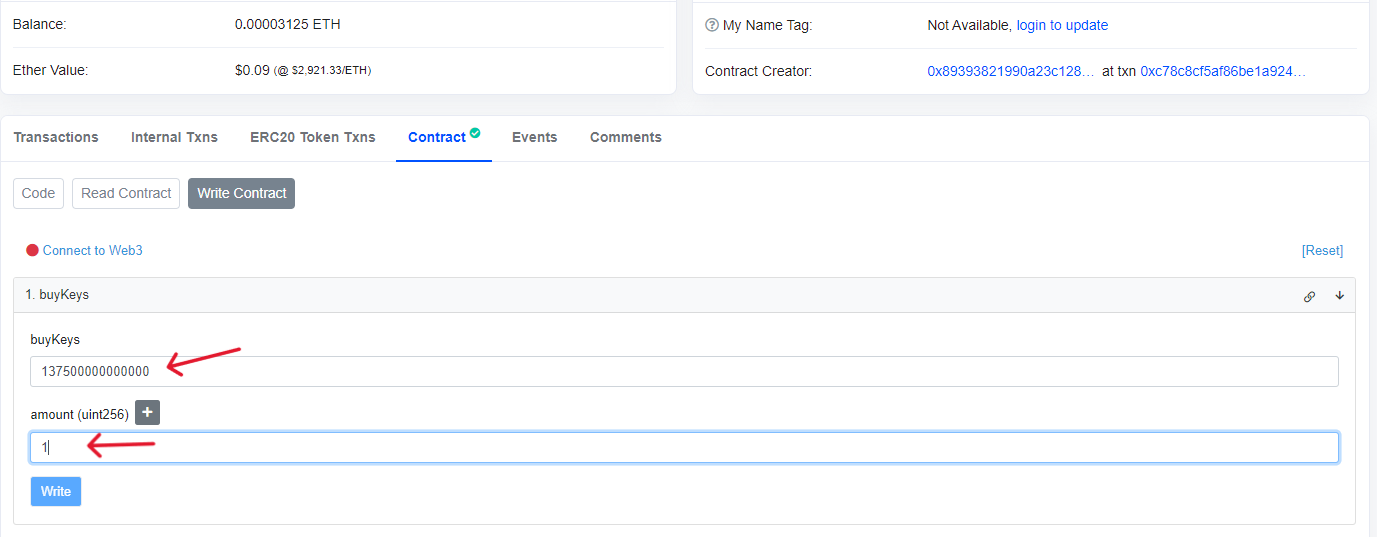
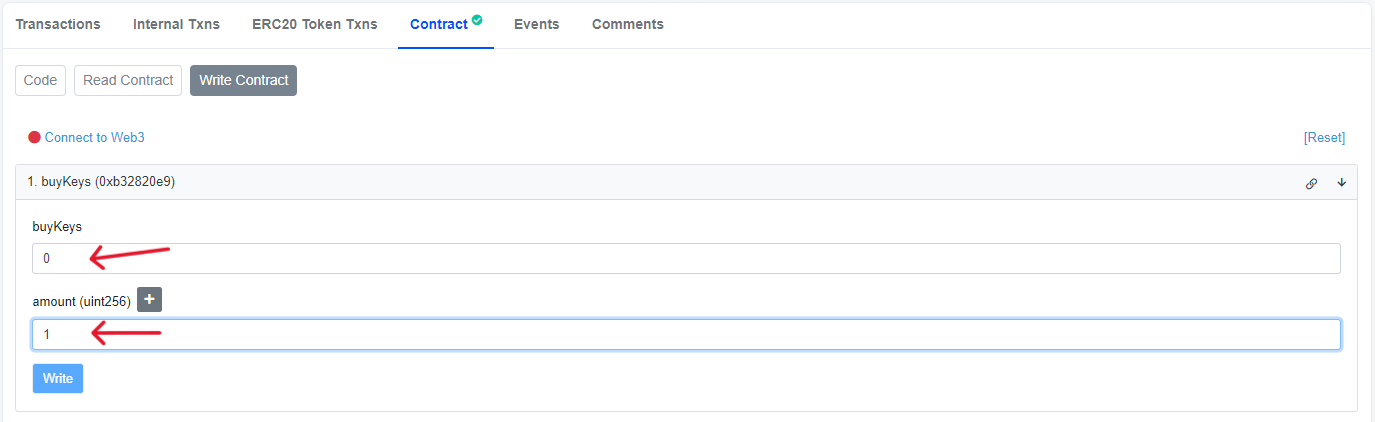
buy sell guide to use ALI

diff --git a/guides/buy-sell-keys-of-dpt/buy-sell-keys-of-dpt.md b/guides/buy-sell-keys-of-dpt/buy-sell-keys-of-dpt.md
@@ -3,12 +3,13 @@
 # Prerequisites
 
 * NFT details that are linked with DPT
-* Enough ETH funds to buy keys and pay for gas.
+* The Key price is in ALI token. So you would be required to have a sufficient amount of ALI tokens to buy the keys. [Buy ALI on Uniswap](https://app.uniswap.org/swap?chain=base&inputCurrency=ETH&outputCurrency=0x97c806e7665d3afd84a8fe1837921403d59f3dcc)
+* Enough ETH to pay for gas.
 
 ### Buy Keys (via Basescan):
 
 1. **Retrieve the Keys contract linked with DPT.**
-    * Open https://basescan.org/address/0x63aCBC42e466d29F271c102Bf97A18B52203b308#readProxyContract#F27 and fill in the details for function 27. `lookupSharesContract`. Format
+    * Open https://basescan.org/address/0x80f5bcc38b18c0f0a18af3c6fba515c890689342#readProxyContract#F27 and fill in the details for function 27. `lookupSharesContract`. Format
         ```
         _sharesSubject (tuple): ["collection_address","tokenId"] eg: ["0x303d1e1f43fef1fb8eab940d9c11a203281c5211","7"]
         ```
@@ -29,14 +30,33 @@
         ![details](./screenshots/buy-price-1.png)
 
     * Click **Query** and it will display the price.
-        > This is the amount of ETH required to buy those Keys.\
-         **Copy this number somewhere we gonna need this in next step.**
+        > This is the amount of ALI required to buy those Keys.\
+         **Copy this number somewhere we will be going need this in next step.**
 
         ![query](./screenshots/buy-price-2.png)
+    
+    * Open the following link, to approve ALI tokens.
+    https://basescan.org/token/0x97c806e7665d3afd84a8fe1837921403d59f3dcc#writeContract#F1 
+    Fill in the details for function 1. `approve`
+        ```
+        spender: Paste the keys contract address here.
+        value: Paste the ALI amount that you copied earlier.
+        ```
+        ![approve-1](./screenshots/approve-1.png)
+    
+    * Connect your wallet using **Connect to Web3** button.
+
+        ![approve-2](./screenshots/approve-2.png)
+
+    * Click **Write** and approve the transaction in Metamask.
+
+         ![approve-3](./screenshots/approve-3.png)
+
+    * Wait for the transaction to be confirmed by the blockchain.
 
     * Open the following link, and remember to replace `<paste-the-keys-address-here>` with the Keys contract address: https://basescan.org/address/paste-the-keys-address-here#writeContract#F1 and fill in the details for function 1. `buyKeys`
         ```
-        payableAmount (ether): Paste the ETH amount that you copied earlier.
+        payableAmount (ether): This will be 0 as the keys price is being paid in ALI.
         amount (uint256): Amount of keys you want to buy.
         ```
         > Amount of keys you specify here must match the amount you queried price for.
@@ -63,7 +83,7 @@
         ![details](./screenshots/sell-price-1.png)
     
     * Click **Query** and it will display the price.
-        > This is the amount of ETH you will receive if you sell this much of keys.
+        > This is the amount of ALI you will receive if you sell this much of keys.
 
         ![query](./screenshots/sell-price-2.png)
 
